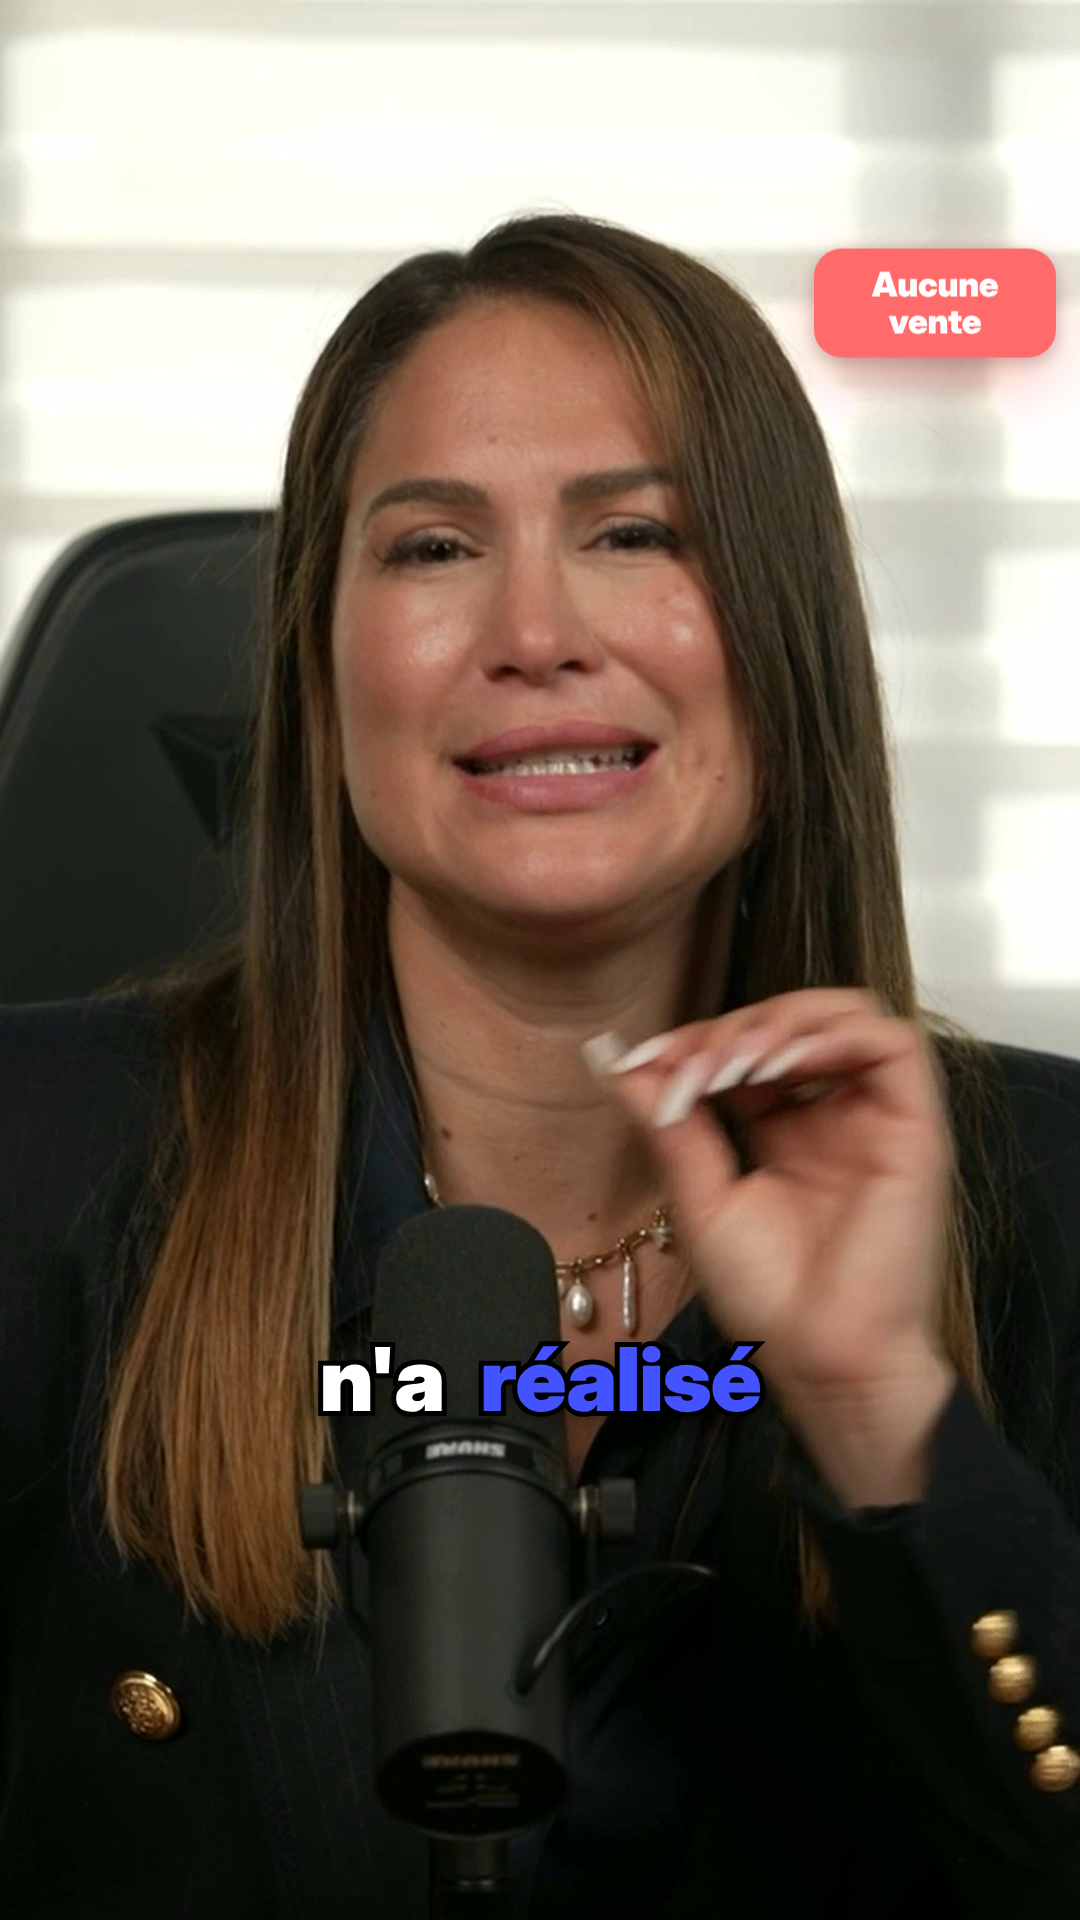
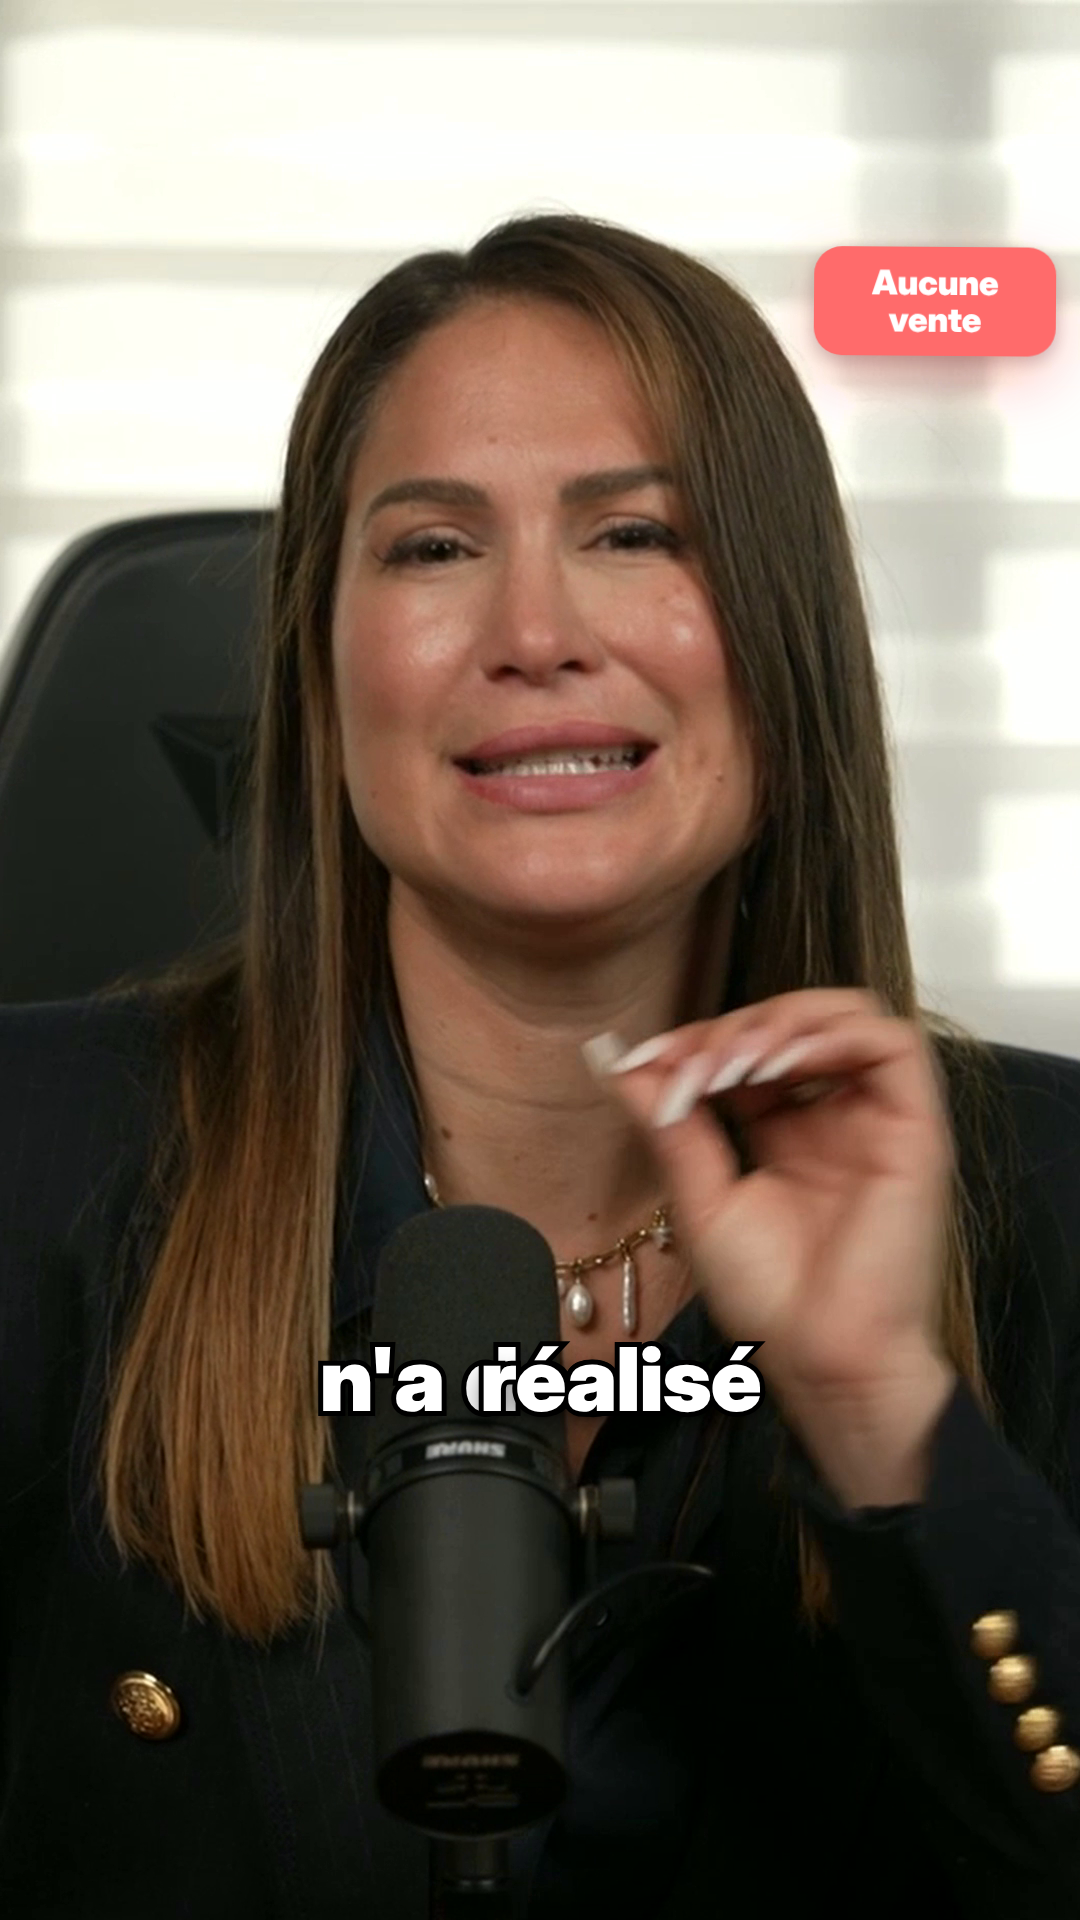
Reel LLC v3.1 : sous-titres blancs, 14 transitions (whip / zoom-punch / flash), 5 shakes, cards plus nerveuses
Claude-Session: https://claude.ai/code/session_01U9MT51fHbTwq5PFUyVeAuN

Changed region(s): [[0.4278, 0.6875, 0.7028, 0.75], [0.7944, 0.125, 0.9167, 0.1875]]

diff --git a/work/overlay/overlay.html b/work/overlay/overlay.html
@@ -13,7 +13,7 @@ html,body{margin:0;padding:0;background:transparent;width:1080px;height:1920px;o
 .w{font-family:Inter;font-weight:900;font-size:88px;line-height:1.12;color:#fff;letter-spacing:-0.015em;display:inline-block;transform-origin:50% 60%;
    -webkit-text-stroke:10px #000;paint-order:stroke fill;text-shadow:0 12px 28px rgba(0,0,0,.6),0 3px 8px rgba(0,0,0,.4)}
 .group.solo .w{font-size:118px;-webkit-text-stroke:12px #000}
-.w.on.c-blue,.w.key.c-blue{color:var(--blue)} .w.on.c-yellow,.w.key.c-yellow{color:var(--yellow)} .w.on.c-green,.w.key.c-green{color:var(--green)} .w.on.c-coral,.w.key.c-coral{color:var(--coral)} .w.on.c-violet,.w.key.c-violet{color:var(--violet)}
+.w.on,.w.key{color:#fff}
 /* ---------- cards devant ---------- */
 .card{position:absolute;opacity:0;transform-origin:50% 50%;will-change:transform}
 .pill{background:var(--blue);color:#fff;font-weight:900;font-size:34px;line-height:1.08;padding:18px 26px;border-radius:28px;max-width:190px;text-align:center;
@@ -54,13 +54,13 @@ function buildSubs(groups){
     const el=document.createElement('div'); el.className='group'+(g.solo?' solo':''); stage.appendChild(el);
     const spans=g.words.map(w=>{const s=document.createElement('span'); s.className='w c-'+(w.color||'blue')+(w.key?' key':''); s.textContent=w.w; el.appendChild(s); return s;});
     const gEnd=g.end;
-    tl.fromTo(el,{opacity:0,scale:0.92},{opacity:1,scale:1,duration:0.08,ease:'power2.out'},g.start);
+    tl.fromTo(el,{opacity:0,scale:0.72,y:14},{opacity:1,scale:1,y:0,duration:0.14,ease:'back.out(2.2)'},g.start);
     tl.set(el,{opacity:0},gEnd);
     g.words.forEach((w,i)=>{
       const s=spans[i]; const next=(i+1<g.words.length)?g.words[i+1].s:gEnd;
       const base='w c-'+(w.color||'blue')+(w.key?' key':''); tl.set(s,{className:base+' on'},w.s);
       if(!w.key) tl.set(s,{className:base},Math.max(w.s+0.02,next));
-      if(w.key){ const rot=(i%2?2:-2); tl.fromTo(s,{scale:1,rotation:0},{scale:1.2,rotation:rot,duration:0.12,ease:'back.out(3)'},w.s); tl.to(s,{scale:1.08,rotation:rot*0.6,duration:0.16,ease:'power2.inOut'},w.s+0.12); }
+      if(w.key){ const rot=(i%2?3:-3); tl.fromTo(s,{scale:1,rotation:0},{scale:1.22,rotation:rot,duration:0.12,ease:'back.out(3)'},w.s); tl.to(s,{scale:1.1,rotation:rot*0.6,duration:0.16,ease:'power2.inOut'},w.s+0.12); }
     });
   }
 }
@@ -79,11 +79,11 @@ function buildCards(cards){
     // position : coin ancré ; x/y = coordonnées du coin
     Object.assign(el.style, c.anchor==='right'?{right:(1080-c.x)+'px'}:{left:c.x+'px'}, {top:c.y+'px'});
     const dir=c.anchor==='right'?1:-1;
-    tl.fromTo(el,{opacity:0,scale:0.8,y:28},{opacity:1,scale:1,y:0,duration:0.5,ease:'back.out(1.9)'},c.start);
+    tl.fromTo(el,{opacity:0,scale:0.7,y:36,rotation:dir*-6},{opacity:1,scale:1,y:0,rotation:0,duration:0.5,ease:'back.out(2.6)'},c.start);
     // flottement doux pendant l'affichage
-    const fl=gsap.timeline({repeat:-1,yoyo:true}).to(el,{y:-7,duration:1.3,ease:'sine.inOut'},0.5); tl.add(fl,c.start); 
-    tl.to(el,{opacity:0,x:dir*46,duration:0.3,ease:'power2.in'},c.end-0.3);
-    if(c.type==='list') c.rows.forEach((r,i)=>{const rw=el.querySelectorAll('.row')[i]; tl.fromTo(rw,{opacity:0,x:-18},{opacity:1,x:0,duration:0.25,ease:'power3.out'},r.t);});
+    const fl=gsap.timeline({repeat:-1,yoyo:true}).to(el,{y:-11,rotation:dir*1.5,duration:1.1,ease:'sine.inOut'},0.5); tl.add(fl,c.start); 
+    tl.to(el,{opacity:0,x:dir*70,scale:0.85,duration:0.28,ease:'power3.in'},c.end-0.28);
+    if(c.type==='list') c.rows.forEach((r,i)=>{const rw=el.querySelectorAll('.row')[i]; tl.fromTo(rw,{opacity:0,x:-30,scale:0.9},{opacity:1,x:0,scale:1,duration:0.3,ease:'back.out(2)'},r.t);});
   }
 }
 // ----- derrière

diff --git a/work/scripts/pass1_reframe.py b/work/scripts/pass1_reframe.py
@@ -1,7 +1,7 @@
 # Passe 1 : lecture du montage 1920x1080 30 fps, recadrage 9:16 centré visage (yeux dans le tiers supérieur),
 # échelle par plan + micro-zoom continu, étalonnage léger, sortie base.mp4 1080x1920.
 import subprocess, json, os, sys, numpy as np, cv2
-sys.path.insert(0, os.path.dirname(__file__)); from edl import quantize, FPS; from shots_v3 import SHOTS, SHAKES, WHIPS
+sys.path.insert(0, os.path.dirname(__file__)); from edl import quantize, FPS; from shots_v3 import SHOTS, SHAKES, TRANSITIONS
 segs=quantize(); face=json.load(open("src/face.json"))
 SW,SH=1920,1080; OW,OH=1080,1920
 ft=np.array([f["t"] for f in face]); fcx=np.array([f["cx"] for f in face])*SW; fey=np.array([f["ey"] for f in face])*SH
@@ -25,17 +25,25 @@ json.dump([{"f":i,"z":round(p[0],4),"x0":round(p[1],2),"y0":round(p[2],2),"w":ro
 dec=subprocess.Popen(["ffmpeg","-v","error","-i","cut/cut_1080p.mp4","-f","rawvideo","-pix_fmt","bgr24","-"],stdout=subprocess.PIPE,bufsize=10**8)
 enc=subprocess.Popen(["ffmpeg","-v","error","-y","-f","rawvideo","-pix_fmt","bgr24","-s",f"{OW}x{OH}","-r",str(FPS),"-i","-",
     "-vf","eq=contrast=1.05:saturation=1.04","-c:v","libx264","-preset","medium","-crf","10","-pix_fmt","yuv420p","cut/base.mp4"],stdin=subprocess.PIPE)
-# shakes / whips : table par frame -> (dx, blur)
-import random; random.seed(7)
+# shakes / transitions : table par frame -> (dx, dy, blur, zoom) ; jamais dans une plage détourée (masques calculés sur la base nue)
+import random, json as _json; random.seed(7)
+_fx=_json.load(open("cut/fx.json")); _beh=[(int(round(b["start"]*FPS))-2, int(round(b["end"]*FPS))+2) for b in _fx["behind"]]
+def _masked(f): return any(a<=f<b for a,b in _beh)
 fx_frames={}
+def _set(f,v):
+    if 0<=f<N and not _masked(f): fx_frames[f]=v
 for (ts,nf,amp) in SHAKES:
     f0=next((int(round(s["dst_in"]*FPS))+int((ts-s["src_in"])*FPS) for s in segs if s["src_in"]<=ts<=s["src_out"]),None)
     if f0 is None: continue
-    for k in range(nf): fx_frames[f0+k]=(random.choice([-1,1])*amp*(1-k/nf), random.choice([-1,1])*amp*0.6*(1-k/nf), 0)
-for w in WHIPS:
-    s=next(x for x in segs if x["label"]==w["at_label"]); fc=int(round(s["dst_in"]*FPS))
-    for k in range(1,w["frames_before"]+1): u=k/w["frames_before"]; fx_frames[fc-k]=(w["dir"]*-260*(1-u+0.2), 0, int(30+60*(1-u)))
-    for k in range(w["frames_after"]): u=k/max(1,w["frames_after"]); fx_frames[fc+k]=(w["dir"]*260*(1-u), 0, int(70*(1-u)))
+    for k in range(nf): _set(f0+k,(random.choice([-1,1])*amp*(1-k/nf), random.choice([-1,1])*amp*0.6*(1-k/nf), 0, 1.0))
+for t in TRANSITIONS:
+    s=next(x for x in segs if x["label"]==t["at_label"]); fc=int(round(s["dst_in"]*FPS))
+    if t["kind"]=="whip":
+        for k in range(1,t["before"]+1): u=k/t["before"]; _set(fc-k,(t["dir"]*-260*(1-u+0.2), 0, int(30+60*(1-u)), 1.0))
+        for k in range(t["after"]): u=k/max(1,t["after"]); _set(fc+k,(t["dir"]*260*(1-u), 0, int(70*(1-u)), 1.0))
+    else:  # zoom-punch : zoom avant progressif avant le cut, gros zoom qui se résorbe après
+        for k in range(1,t["before"]+1): u=k/t["before"]; _set(fc-k,(0,0,0, 1.0+0.10*(1-u)))
+        for k in range(t["after"]): u=k/max(1,t["after"]); _set(fc+k,(0,0, int(6*(1-u)), 1.0+0.22*(1-u)**1.5))
 print("fx frames",sorted(fx_frames)[:40])
 fsz=SW*SH*3; i=0
 while True:
@@ -47,9 +55,10 @@ while True:
     sc=OH/h; M=np.array([[sc,0,-x0*sc],[0,sc,-y0*sc]],np.float32)
     out=cv2.warpAffine(fr,M,(OW,OH),flags=cv2.INTER_LANCZOS4,borderMode=cv2.BORDER_REPLICATE)
     if i in fx_frames:
-        dx,dy,bl=fx_frames[i]
-        out=cv2.warpAffine(out,np.array([[1,0,dx],[0,1,dy]],np.float32),(OW,OH),borderMode=cv2.BORDER_REPLICATE)
-        if bl>0: out=cv2.blur(out,(bl,1))   # flou de mouvement horizontal (whip)
+        dx,dy,bl,zz=fx_frames[i]
+        M2=np.array([[zz,0,dx+OW/2*(1-zz)],[0,zz,dy+OH*0.3*(1-zz)]],np.float32)   # zoom centré sur le visage (30 % de hauteur)
+        out=cv2.warpAffine(out,M2,(OW,OH),flags=cv2.INTER_LINEAR,borderMode=cv2.BORDER_REPLICATE)
+        if bl>0: out=cv2.blur(out,(bl,1)) if zz==1.0 else cv2.blur(out,(bl,bl))   # flou horizontal (whip) ou doux (zoom)
     enc.stdin.write(out.tobytes()); i+=1
 enc.stdin.close(); enc.wait(); dec.wait()
 print("frames",i,"expected",N)

diff --git a/work/scripts/shots_v3.py b/work/scripts/shots_v3.py
@@ -1,12 +1,27 @@
-# Plan de plans v3 : punch-in/out 1.0 <-> 1.15 à chaque cut (A, E, L conservent le plan v2 : masques déjà calculés sur ces plages)
+# Plan de plans v3.1 : punch-in/out 1.0 <-> 1.15 à chaque cut ; A, E, L conservent le plan v2 (masques calculés sur ces plages)
 SHOTS = {
  "A": (1.00, 1.05), "B": (1.15, 1.18), "C": (1.02, 1.06), "D1": (1.15, 1.15), "D2": (1.00, 1.04),
  "E": (1.14, 1.18), "F1": (1.00, 1.04), "F2": (1.15, 1.17), "G1": (1.18, 1.18), "G2": (1.00, 1.05),
  "H1": (1.15, 1.17), "H2": (1.00, 1.04), "I": (1.12, 1.15), "J": (1.18, 1.18), "K": (1.02, 1.05), "L": (1.00, 1.04),
 }
 # shakes : (temps source du mot, nb images, amplitude px) — hors plages masquées
-SHAKES = [(41.14, 4, 12), (68.08, 4, 12), (94.64, 3, 10)]
-# whips : temps source du cut (début du segment suivant) ; pan horizontal + flou sur les images précédant/suivant le cut
-WHIPS = [{"at_label": "E", "frames_before": 4, "frames_after": 0, "dir": -1},   # avant « Erreur » (plage masquée après : pas d'images après)
-         {"at_label": "G1", "frames_before": 4, "frames_after": 3, "dir": 1}]   # avant « Le problème »
-FLASHES = [{"at_label": "E", "frames": 3}, {"at_label": "I", "frames": 3}]       # flash blanc (appliqué en passe 3)
+SHAKES = [(12.86, 3, 10), (41.14, 4, 12), (53.84, 3, 10), (68.08, 4, 12), (94.64, 3, 10)]
+# transitions au cut (début du segment) : whip = pan + flou de mouvement ; zoom = zoom-punch ; frames avant / après le cut
+TRANSITIONS = [
+ {"at_label": "B",  "kind": "zoom", "before": 0, "after": 4},
+ {"at_label": "C",  "kind": "whip", "before": 3, "after": 3, "dir": 1},
+ {"at_label": "D1", "kind": "zoom", "before": 2, "after": 3},
+ {"at_label": "E",  "kind": "whip", "before": 4, "after": 0, "dir": -1},
+ {"at_label": "F1", "kind": "zoom", "before": 0, "after": 3},
+ {"at_label": "F2", "kind": "whip", "before": 3, "after": 3, "dir": -1},
+ {"at_label": "G1", "kind": "whip", "before": 4, "after": 3, "dir": 1},
+ {"at_label": "G2", "kind": "zoom", "before": 2, "after": 3},
+ {"at_label": "H1", "kind": "whip", "before": 3, "after": 3, "dir": 1},
+ {"at_label": "H2", "kind": "zoom", "before": 2, "after": 3},
+ {"at_label": "I",  "kind": "zoom", "before": 0, "after": 3},
+ {"at_label": "J",  "kind": "whip", "before": 3, "after": 3, "dir": -1},
+ {"at_label": "K",  "kind": "zoom", "before": 2, "after": 3},
+ {"at_label": "L",  "kind": "zoom", "before": 0, "after": 4},
+]
+WHIPS = [t for t in TRANSITIONS if t["kind"] == "whip"]
+FLASHES = [{"at_label": "D2", "frames": 2}, {"at_label": "E", "frames": 3}, {"at_label": "I", "frames": 3}, {"at_label": "L", "frames": 3}]

diff --git a/work/scripts/audio_mix.py b/work/scripts/audio_mix.py
@@ -24,10 +24,13 @@ for b in fx["behind"]:
     else: put(impact,b["start"],0.35); put(whoosh,b["start"]-0.1,0.18)
 # whips / flashs (transitions) : whoosh plus marqué
 try:
-    import sys; sys.path.insert(0,"scripts"); from shots_v3 import WHIPS, FLASHES; from edl import quantize
+    import sys; sys.path.insert(0,"scripts"); from shots_v3 import TRANSITIONS, FLASHES; from edl import quantize
     segs=quantize()
-    for w in WHIPS: put(whoosh, next(x["dst_in"] for x in segs if x["label"]==w["at_label"])-0.18, 0.4)
-    for fl in FLASHES: put(impact, next(x["dst_in"] for x in segs if x["label"]==fl["at_label"]), 0.3)
+    for t in TRANSITIONS:
+        tc=next(x["dst_in"] for x in segs if x["label"]==t["at_label"])
+        if t["kind"]=="whip": put(whoosh, tc-0.18, 0.4)
+        else: put(impact, tc, 0.28); put(pop, tc+0.03, 0.18)
+    for fl in FLASHES: put(impact, next(x["dst_in"] for x in segs if x["label"]==fl["at_label"]), 0.22)
 except Exception as ex: print("whip sfx skipped", ex)
 sf.write("cut/sfx_track.wav",sfx,sr)
 # 3) musique : boucle coupée à la durée, fade out final 1.2 s
